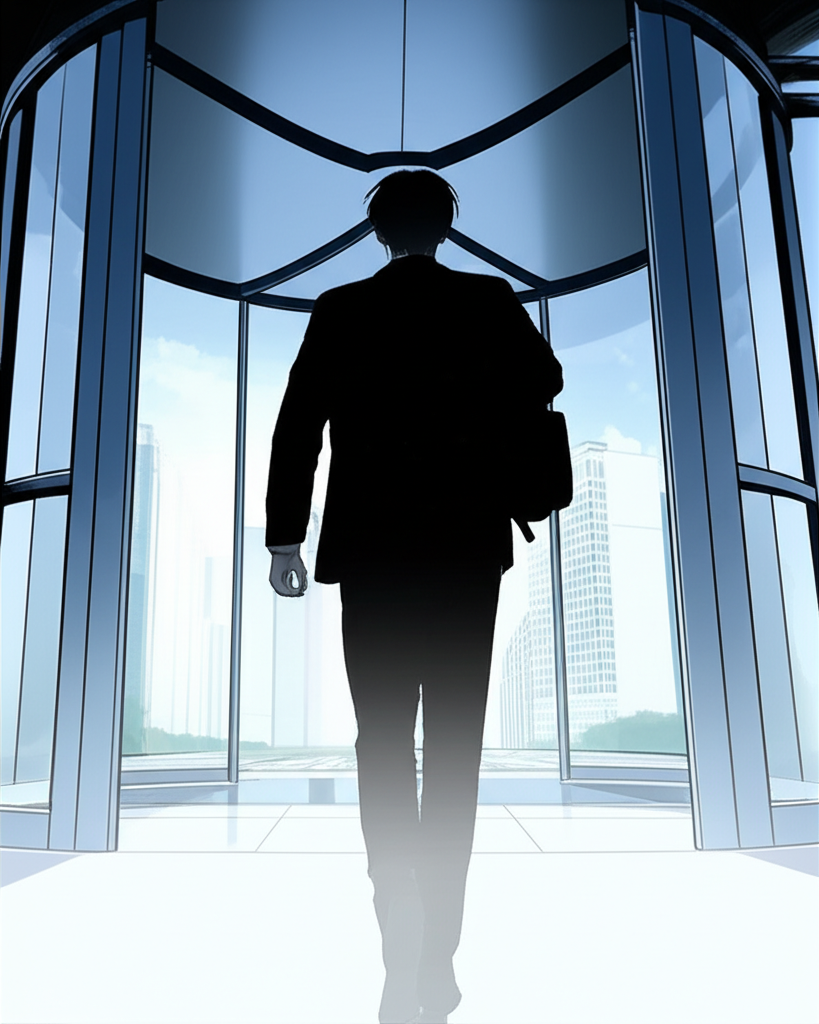
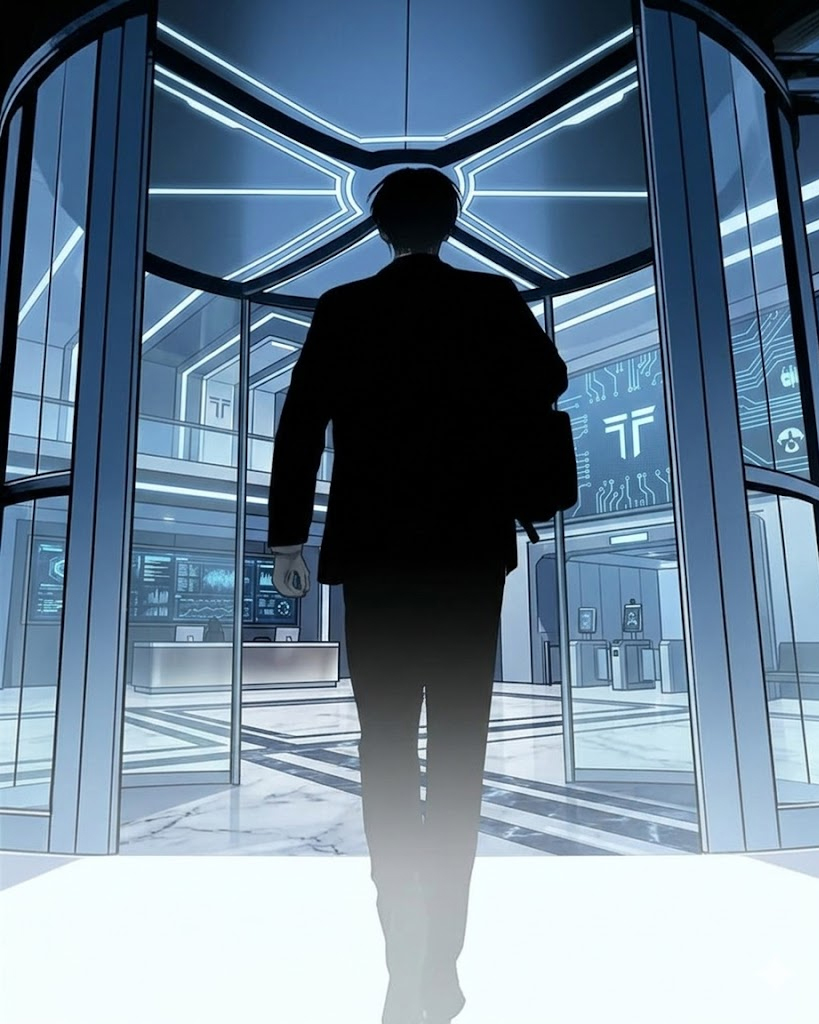
替換旋轉門CG(Sean修正方向)+修正一年半→三個月

diff --git a/prototype/data/chapter1.js b/prototype/data/chapter1.js
@@ -44,7 +44,7 @@ const CHAPTER1 = [
   { type: 'say', speaker: '金智媛', text: '我叫金智媛！你旁邊座！{{잘 부탁해요～}}（請多指教～）' },
   { type: 'narrate', text: '她大方地伸出手。旻赫看著她——心裡像被什麼東西輕輕撞了一下。' },
   { type: 'say', speaker: '旻赫', text: '（金智媛。釜山人，延世畢業，比我早半年進盛元。做事快、嘴巴更快、正義感強到不要命。）' },
-  { type: 'say', speaker: '旻赫', text: '（前世——她是唯一一個在朴在成面前替我說話的人。被報復了一年半，最後被逼到自己辭職。）' },
+  { type: 'say', speaker: '旻赫', text: '（前世——她是唯一一個在朴在成面前替我說話的人。被報復了三個月，最後被逼到自己辭職。）' },
   { type: 'say', speaker: '旻赫', text: '（走的那天她一個人搬紙箱，我路過，什麼都沒說。什麼都沒做。）' },
   { type: 'say', speaker: '旻赫', text: '（這一世……你還是這麼吵啊。）' },
   { type: 'say', speaker: '旻赫', text: '你好。姜旻赫。請多指教。' },
